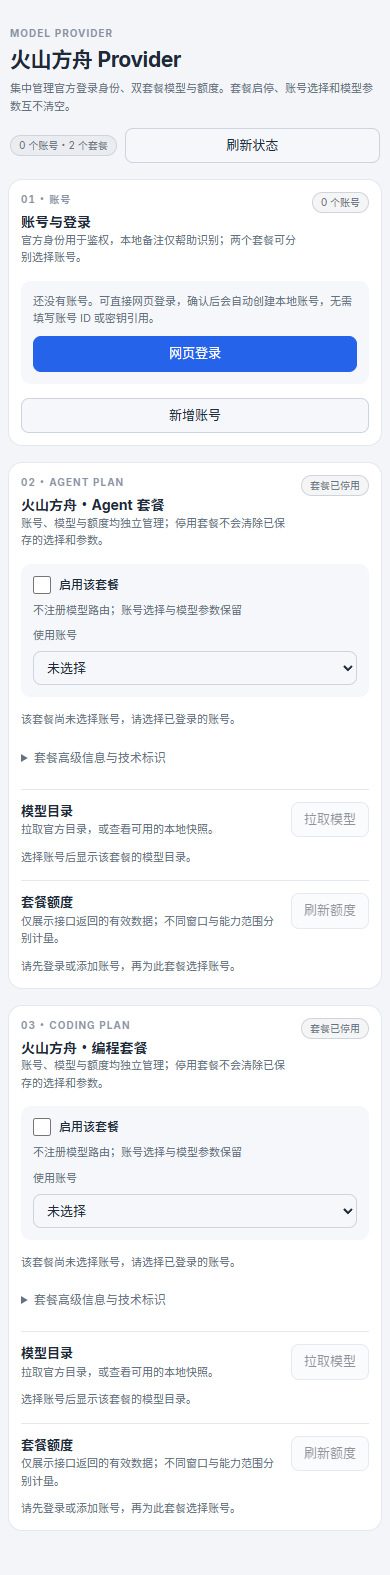
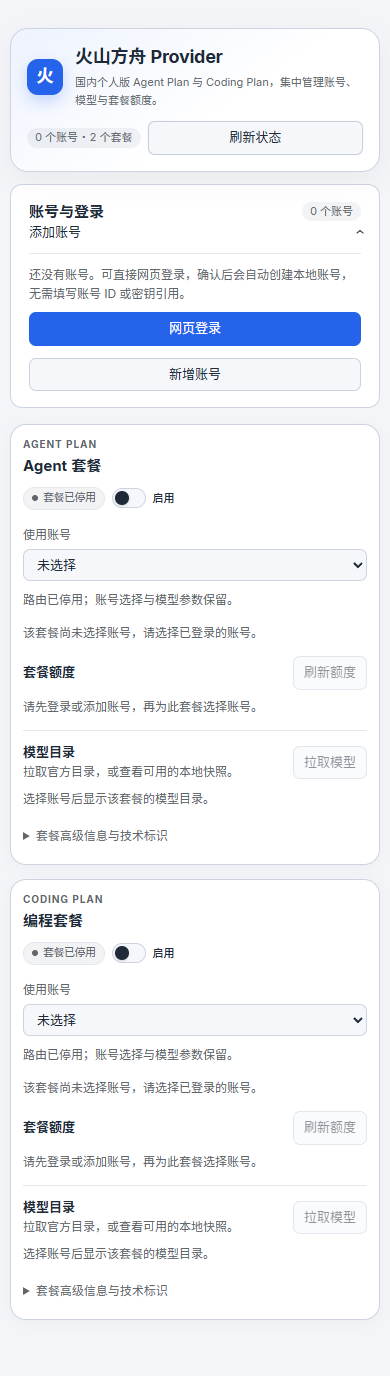
feat: rebuild settings cards and show consumption rates in 0.2.9

diff --git a/src/client.js b/src/client.js
@@ -241,6 +241,22 @@ body[data-ds-dark-theme] .vcp-settings{color-scheme:dark}
 @media(max-width:420px){.vcp-settings{padding:2px 0 20px}.vcp-card{padding:12px}.vcp-plan-workspace{padding:0}.vcp-plan{padding:12px}.vcp-header{flex-wrap:wrap}.vcp-header>.vcp-actions{width:100%;justify-content:space-between}.vcp-heading{gap:8px}.vcp-heading>.vcp-actions{width:100%}.vcp-actions .vcp-button{flex:1 1 auto}.vcp-account-body{padding:12px 0 0}.vcp-section{padding-top:12px}.vcp-quota-reset{flex-direction:column}.vcp-plan-account{flex-basis:100%}}
 @container vcp (max-width:680px){.vcp-fields,.vcp-fields-three{grid-template-columns:1fr}}
 @container vcp (max-width:420px){.vcp-settings{padding:2px 0 20px}.vcp-plan{padding:12px}.vcp-header{flex-wrap:wrap}.vcp-header>.vcp-actions{width:100%;justify-content:space-between}.vcp-heading>.vcp-actions{width:100%}.vcp-actions .vcp-button{flex:1 1 auto}.vcp-account-body{padding:12px 0 0}.vcp-quota-reset{flex-direction:column}.vcp-plan-account{flex-basis:100%}}
+
+/* Provider workspace: independent plan cards, compact quotas and model badges. */
+.vcp-settings{max-width:1080px;padding:4px 2px 32px;gap:16px;-webkit-font-smoothing:antialiased}
+.vcp-content{gap:16px}.vcp-hero{position:relative;overflow:hidden;padding:20px 22px;border:1px solid var(--dsw-alias-border-l3,rgba(128,128,128,.2));border-radius:18px;background:linear-gradient(145deg,color-mix(in srgb,var(--dsw-alias-brand-primary,#2563eb) 8%,var(--dsw-alias-bg-layer-1,#fff)),var(--dsw-alias-bg-layer-1,#fff) 58%);box-shadow:0 8px 28px rgba(15,23,42,.05)}
+.vcp-brand-mark{display:flex;align-items:center;justify-content:center;flex:none;width:42px;height:42px;border-radius:13px;background:var(--dsw-alias-brand-primary,#2563eb);color:var(--dsw-alias-label-primary-foreground,#fff);font-size:20px;font-weight:750;box-shadow:0 6px 16px color-mix(in srgb,var(--dsw-alias-brand-primary,#2563eb) 24%,transparent)}
+.vcp-hero-subtitle{margin:5px 0 0;max-width:64ch;font-size:12px;line-height:1.6;color:var(--dsw-alias-label-secondary,inherit)}.vcp-eyebrow{margin-bottom:3px;font-size:10px;font-weight:700;letter-spacing:.09em;color:var(--dsw-alias-label-secondary,inherit)}
+.vcp-plan-workspace{gap:14px;padding:0;border:0;background:transparent;overflow:visible;align-items:start}.vcp-plan{gap:14px;padding:18px;border:1px solid var(--dsw-alias-border-l3,rgba(128,128,128,.2));border-radius:16px;background:var(--dsw-alias-bg-layer-1,Canvas);box-shadow:0 3px 14px rgba(15,23,42,.035)}.vcp-plan-setup{align-items:stretch}.vcp-plan-account{flex-basis:100%}.vcp-plan-toggle{display:inline-flex;align-items:center;gap:7px;min-height:28px;font-size:11px;font-weight:600;white-space:nowrap;cursor:pointer}
+.vcp-switch-input{appearance:none;-webkit-appearance:none;position:relative;flex:none;width:34px;height:20px;margin:0;border:1px solid var(--dsw-alias-border-l3,rgba(128,128,128,.35));border-radius:999px;background:var(--dsw-alias-bg-layer-2,rgba(128,128,128,.12));color:var(--dsw-alias-label-primary,#1f2937);cursor:pointer}.vcp-switch-input::after{content:'';position:absolute;top:2px;left:2px;width:14px;height:14px;border-radius:50%;background:currentColor;box-shadow:0 1px 3px rgba(0,0,0,.2)}.vcp-switch-input:checked{border-color:var(--dsw-alias-brand-primary,#2563eb);background:var(--dsw-alias-brand-primary,#2563eb);color:var(--dsw-alias-label-primary-foreground,#fff)}.vcp-switch-input:checked::after{transform:translateX(14px)}body[data-ds-dark-theme] .vcp-switch-input:checked{color:#11161e}.vcp-switch-input:disabled{opacity:.55;cursor:not-allowed}
+.vcp-status-chip{display:inline-flex;align-items:center;gap:5px;padding:2px 8px;border:1px solid var(--dsw-alias-border-l4,rgba(128,128,128,.18));border-radius:999px;font-size:10.5px;line-height:1.6;white-space:nowrap;color:var(--dsw-alias-label-secondary,inherit);background:var(--dsw-alias-interactive-bg-hover,rgba(128,128,128,.06))}.vcp-status-chip::before{content:'';width:6px;height:6px;border-radius:50%;background:currentColor}.vcp-status-chip[data-tone=success]{color:var(--dsw-alias-state-success-primary,#15803d);border-color:color-mix(in srgb,currentColor 30%,transparent);background:color-mix(in srgb,currentColor 8%,transparent)}.vcp-status-chip[data-tone=warn]{color:var(--dsw-alias-state-warn-primary,#b45309);border-color:color-mix(in srgb,currentColor 30%,transparent);background:color-mix(in srgb,currentColor 8%,transparent)}
+.vcp-quota{grid-template-columns:1fr;gap:8px}.vcp-quota-group{grid-template-columns:repeat(auto-fit,minmax(min(100%,200px),1fr));gap:8px}.vcp-quota-group-title{grid-column:1/-1}.vcp-quota-window{padding:10px;border:1px solid var(--dsw-alias-border-l4,rgba(128,128,128,.12));background:var(--dsw-alias-interactive-bg-hover,rgba(128,128,128,.045))}.vcp-quota-track{height:6px}.vcp-quota-percent{font-size:18px}.vcp-quota-meta{font-size:11px}.vcp-section{gap:8px;padding-top:12px}
+.vcp-model-list{display:grid;grid-template-columns:repeat(auto-fit,minmax(min(100%,280px),1fr));gap:10px;margin-top:10px}.vcp-model{position:relative;display:flex;flex-direction:column;gap:10px;min-width:0;padding:13px;border:1px solid var(--dsw-alias-border-l3,rgba(128,128,128,.18));border-radius:12px;background:var(--dsw-alias-bg-layer-2,rgba(128,128,128,.035));box-shadow:inset 0 1px 0 rgba(255,255,255,.035)}.vcp-model:first-child{border-top:1px solid var(--dsw-alias-border-l3,rgba(128,128,128,.18))}.vcp-model[data-disabled=true]{opacity:.66}.vcp-model-head{display:flex;align-items:flex-start;justify-content:space-between;gap:8px;min-width:0}.vcp-model-toggle{display:flex;align-items:flex-start;gap:9px;flex:1 1 auto;min-width:0;cursor:pointer}.vcp-model-toggle .vcp-switch-input{margin-top:1px}.vcp-model-heading{display:flex;align-items:center;gap:6px;flex-wrap:wrap;min-width:0;font-size:13px;line-height:1.45}.vcp-model-name{font-size:13.5px;font-weight:650;overflow-wrap:anywhere}.vcp-model-tags{display:flex;gap:5px;flex-wrap:wrap}.vcp-model-tag{display:inline-flex;align-items:center;padding:2px 7px;border:1px solid var(--dsw-alias-border-l4,rgba(128,128,128,.16));border-radius:999px;font-size:10px;line-height:1.55;white-space:nowrap;color:var(--dsw-alias-label-secondary,inherit);background:var(--dsw-alias-interactive-bg-hover,rgba(128,128,128,.04))}.vcp-model-tag[data-tone=accent]{color:var(--dsw-alias-brand-primary,#2563eb);border-color:color-mix(in srgb,currentColor 25%,transparent);background:color-mix(in srgb,currentColor 6%,transparent)}.vcp-model-tag[data-tone=warn]{color:var(--dsw-alias-state-warn-primary,#b45309)}
+.vcp-rate-badge{display:inline-flex;align-items:center;gap:4px;padding:1px 7px;border:1px solid color-mix(in srgb,var(--dsw-alias-brand-primary,#2563eb) 35%,transparent);border-radius:999px;background:color-mix(in srgb,var(--dsw-alias-brand-primary,#2563eb) 8%,transparent);color:var(--dsw-alias-brand-primary,#2563eb);font-size:10.5px;font-weight:750;line-height:1.6;white-space:nowrap;font-variant-numeric:tabular-nums}.vcp-rate-badge small{font-size:8.5px;font-weight:650;opacity:1}.vcp-rate-badge[data-discount=true]{color:var(--dsw-alias-state-success-primary,#15803d);border-color:color-mix(in srgb,currentColor 35%,transparent);background:color-mix(in srgb,currentColor 9%,transparent)}
+.vcp-model-actions{display:flex;justify-content:flex-end;gap:7px;flex-wrap:wrap;margin-top:auto}.vcp-model-actions .vcp-button{min-height:29px;padding:4px 10px;font-size:11px}.vcp-model .vcp-details{padding-top:2px;border-top:1px solid var(--dsw-alias-border-l4,rgba(128,128,128,.12))}.vcp-model .vcp-details>summary{min-height:25px;padding:3px 0;font-size:11px}.vcp-account-panel{border-radius:16px;padding:16px 18px}.vcp-button{transition:border-color .15s ease,box-shadow .15s ease}.vcp-button-primary{border-color:var(--dsw-alias-brand-primary,#2563eb)}
+@media(max-width:680px){.vcp-hero{padding:16px}.vcp-plan{padding:15px}.vcp-model-list{grid-template-columns:1fr}}
+@media(max-width:420px){.vcp-plan{padding:12px}.vcp-brand-mark{width:36px;height:36px;border-radius:11px;font-size:17px}.vcp-hero .vcp-header-copy{flex:1 1 calc(100% - 52px)}.vcp-hero-subtitle{font-size:11px}.vcp-model-head{flex-direction:column}.vcp-model-head>.vcp-chip-row{padding-left:43px}.vcp-quota{grid-template-columns:1fr}}
+@media(prefers-reduced-motion:reduce){.vcp-settings *{scroll-behavior:auto!important;transition:none!important}}
 `;
 
 function installStyles() {
@@ -277,6 +293,30 @@ function Notice({ tone = 'muted', role, children, action }) {
 
 function StatusChip({ tone = 'muted', children }) {
   return h('span', { className: 'vcp-status-chip', 'data-tone': tone }, children);
+}
+
+function ModelTag({ tone = 'muted', title, children }) {
+  return h('span', { className: 'vcp-model-tag', 'data-tone': tone, title }, children);
+}
+
+function formatRate(value) {
+  return Number.isFinite(value) ? String(Math.round(value * 100) / 100) : '';
+}
+
+function ConsumptionBadge({ plan, consumption }) {
+  const rate = formatRate(consumption?.multiplier);
+  if (!rate) return null;
+  const regular = formatRate(consumption.regularMultiplier);
+  const discount = consumption.discounted
+    ? `限时折扣至 ${formatTime(consumption.discountEndsAt)}，常规倍率 ${regular}×。`
+    : '当前按常规倍率展示。';
+  const title = plan === 'agent-plan'
+    ? `Agent Plan AFP 输入/输出抵扣系数均为 ${rate}。${discount}`
+    : `以官方 Agent Plan AFP 系数作相对消耗参考 ${rate}×；Coding Plan 不以此换算固定调用次数或 AFP 绝对量。${discount}`;
+  return h('span', {
+    className: 'vcp-rate-badge', 'data-discount': consumption.discounted ? 'true' : 'false',
+    title, 'aria-label': `消耗倍率 ${rate} 倍${consumption.discounted ? '，限时折扣' : ''}`
+  }, `${rate}×`, consumption.discounted ? h('small', null, '限时') : null);
 }
 
 // ── 纯函数小工具 ─────────────────────────────────────────────────────────────
@@ -396,6 +436,19 @@ function resetCountdown(value, now) {
 function formatPercent(value) {
   const rounded = Math.round(Number(value) * 10) / 10;
   return Number.isFinite(rounded) ? String(rounded) : '0';
+}
+
+function formatTokenCount(value) {
+  if (!Number.isFinite(value) || value <= 0) return '未知';
+  if (value >= 1024 * 1024) {
+    const amount = value / (1024 * 1024);
+    return `${Number.isInteger(amount) ? amount : amount.toFixed(1)}M`;
+  }
+  if (value >= 1024) {
+    const amount = value / 1024;
+    return `${Number.isInteger(amount) ? amount : amount.toFixed(1)}K`;
+  }
+  return String(value);
 }
 
 /**
@@ -1053,36 +1106,43 @@ function ModelSettingsEditor({ model, draft, error, disabled, onChange, onSave, 
  * @param {object} props 组件属性
  * @returns {object} 元素树
  */
-function ModelRow({ model, disabled, routingError, editor, draftError, onToggle, onOpenEditor, onCloseEditor, onChangeDraft, onSave, onReset }) {
+function ModelRow({ plan, model, disabled, routingError, editor, draftError, onToggle, onOpenEditor, onCloseEditor, onChangeDraft, onSave, onReset }) {
   const enabled = model?.enabled !== false;
   const editing = editor?.modelId === model?.id;
-  const effective = describeEffective(model);
+  const effectiveSummary = describeEffective(model);
+  const values = model?.effective ?? model?.defaults ?? {};
   const capabilityLabel = ({ dynamic: '动态路由', partial: '部分参数未公开', unknown: '参数待确认' })[model?.capabilityStatus]
     || (model?.capabilityUnverified ? '参数待确认' : '');
-  return h('div', { className: 'vcp-model' },
-    h('div', { className: 'vcp-heading' },
-      h('div', { className: 'vcp-actions', style: { flex: '1 1 260px' } },
-        h('label', { className: 'vcp-actions', style: { flex: '1 1 220px', minWidth: 0 } },
-          h('input', {
-            type: 'checkbox', checked: enabled, disabled,
-            'aria-label': `启用模型 ${model?.id ?? ''}`,
-            style: { width: 18, height: 18, margin: 0, flex: '0 0 auto', accentColor: 'var(--dsw-alias-brand-primary, Highlight)' },
-            onChange: (event) => onToggle(model, Boolean(event.target.checked))
-          }),
-          h('span', { className: 'vcp-model-name', title: model?.id }, model?.name || model?.id)),
-        h('span', { className: 'vcp-chip-row' },
-          capabilityLabel ? h('span', { style: style.chip }, capabilityLabel) : null,
-          model?.canDisableThinking === false ? h('span', { style: style.chip }, '常驻思考') : null,
-          enabled ? null : h('span', { style: style.chip }, '已停用'))),
-      h('div', { className: 'vcp-actions' },
-        h('button', { type: 'button', style: style.btn, disabled, 'aria-label': `模型参数 ${model?.id ?? ''}`, onClick: () => (editing ? onCloseEditor() : onOpenEditor(model)) }, editing ? '收起参数' : '参数'),
-        h('button', { type: 'button', style: style.btn, disabled, 'aria-label': `恢复默认 ${model?.id ?? ''}`, title: '清除全部参数覆盖并恢复模型启用状态', onClick: () => onReset(model) }, enabled ? '恢复默认' : '恢复默认并启用'))),
+  const thinkingLabel = model?.canDisableThinking === false ? '常驻思考' : values.reasoningEfforts ? '可调思考' : '思考按默认';
+  return h('article', { className: 'vcp-model', 'data-disabled': enabled ? 'false' : 'true' },
+    h('div', { className: 'vcp-model-head' },
+      h('label', { className: 'vcp-model-toggle' },
+        h('input', {
+          className: 'vcp-switch-input', type: 'checkbox', checked: enabled, disabled,
+          'aria-label': `启用模型 ${model?.id ?? ''}`,
+          onChange: (event) => onToggle(model, Boolean(event.target.checked))
+        }),
+        h('span', { className: 'vcp-model-heading' },
+          h('span', { className: 'vcp-model-name', title: model?.id }, model?.name || model?.id),
+          h(ConsumptionBadge, { plan, consumption: model?.consumption }))),
+      h('span', { className: 'vcp-chip-row' },
+        capabilityLabel ? h('span', { style: style.chip }, capabilityLabel) : null,
+        enabled ? null : h('span', { style: style.chip }, '已停用'))),
+    h('div', { className: 'vcp-model-tags' },
+      h(ModelTag, { tone: values.imageInput ? 'accent' : 'muted' }, values.imageInput ? '视觉' : '纯文本'),
+      h(ModelTag, { tone: values.reasoningEfforts ? 'accent' : 'muted' }, thinkingLabel),
+      h(ModelTag, { title: `上下文长度 ${values.contextWindow ?? '未知'} token` }, `上下文 ${formatTokenCount(values.contextWindow)}`),
+      h(ModelTag, { title: `最大输出 ${values.maxTokens ?? '未知'} token` }, `输出 ${formatTokenCount(values.maxTokens)}`),
+      values.toolsEnabled === false ? h(ModelTag, { tone: 'warn' }, '工具已停用') : null),
+    h('div', { className: 'vcp-model-actions' },
+      h('button', { type: 'button', style: style.btn, disabled, 'aria-label': `模型参数 ${model?.id ?? ''}`, onClick: () => (editing ? onCloseEditor() : onOpenEditor(model)) }, editing ? '收起参数' : '参数'),
+      h('button', { type: 'button', style: style.btn, disabled, 'aria-label': `恢复默认 ${model?.id ?? ''}`, title: '清除全部参数覆盖并恢复模型启用状态', onClick: () => onReset(model) }, enabled ? '恢复默认' : '恢复默认并启用')),
     h('details', { className: 'vcp-details' },
       h('summary', { style: style.summary }, '模型技术标识与参数详情'),
       h('div', { className: 'vcp-model-meta' },
         h('p', { className: 'vcp-model-id', style: style.muted }, `调用 ID：${model?.id ?? ''}`),
         h('p', { style: style.muted }, `当前参数：${describeModelSettings(model)}`),
-        effective ? h('p', { style: routingError ? style.warn : style.muted }, `${routingError ? '已保存配置（路由尚未生效）' : '生效值'}：${effective}`) : null,
+        effectiveSummary ? h('p', { style: routingError ? style.warn : style.muted }, `${routingError ? '已保存配置（路由尚未生效）' : '生效值'}：${effectiveSummary}`) : null,
         model?.capabilityNote ? h('p', { style: style.muted }, model.capabilityNote) : null)),
     model?.settingsWarning ? h('p', { role: 'alert', style: style.warn }, model.settingsWarning) : null,
     editing
@@ -1194,22 +1254,23 @@ function PlanCard({ plan, snapshot, rawQuota, busy, quotaBusy, onSelect, onModel
 
   return h('section', { className: 'vcp-plan vcp-card', 'data-section': plan === 'agent-plan' ? '02' : '03', 'aria-label': PLAN_TITLES[plan] },
     h(SectionHeading, {
+      eyebrow: plan === 'agent-plan' ? 'AGENT PLAN' : 'CODING PLAN',
       title: plan === 'agent-plan' ? 'Agent 套餐' : '编程套餐',
-      action: h(StatusChip, { tone: planTone }, planState)
+      action: h('div', { className: 'vcp-actions' },
+        h(StatusChip, { tone: planTone }, planState),
+        h('label', { className: 'vcp-plan-toggle', title: '停用后保留账号选择与模型参数' },
+          h('input', {
+            className: 'vcp-switch-input', type: 'checkbox', checked: providerEnabled, disabled,
+            'aria-label': `启用${PLAN_TITLES[plan]}`,
+            onChange: (event) => onToggleProvider(plan, Boolean(event.target.checked))
+          }),
+          h('span', null, '启用')))
     }),
     snapshot?.routingError ? h('p', { style: style.muted }, `所选账号：${account ? accountName(account) : '未选择'}`) : null,
     snapshot?.routingError ? h(Notice, { tone: 'warn', role: 'alert' }, appliedAccount === undefined
       ? '实际生效账号暂不可确认，请排除路由错误后重试。'
       : appliedAccount ? `实际生效账号：${accountName(appliedAccount)}（${appliedAccount.id}），路由更新尚未完成。` : '该套餐当前没有已生效的模型路由。') : null,
     h('div', { className: 'vcp-plan-setup' },
-      h('label', { className: 'vcp-plan-toggle' },
-        h('input', {
-          type: 'checkbox', checked: providerEnabled, disabled,
-          'aria-label': `启用${PLAN_TITLES[plan]}`,
-          style: { width: 18, height: 18, margin: 0, accentColor: 'var(--dsw-alias-brand-primary, Highlight)' },
-          onChange: (event) => onToggleProvider(plan, Boolean(event.target.checked))
-        }),
-        h('span', null, '启用套餐')),
       h('label', { className: 'vcp-plan-account', style: style.field },
         h('span', { style: style.label }, '使用账号'),
         h('select', {
@@ -1264,7 +1325,7 @@ function PlanCard({ plan, snapshot, rawQuota, busy, quotaBusy, onSelect, onModel
           h('div', { className: 'vcp-model-list' },
             models.map((model, index) => h(ModelRow, {
               key: model?.id ?? `model-${index}`,
-              model, disabled, routingError: snapshot?.routingError, editor, draftError,
+              plan, model, disabled, routingError: snapshot?.routingError, editor, draftError,
               onToggle: (item, enabled) => onToggleModel(plan, activeId, item.id, enabled),
               onOpenEditor: openEditor,
               onCloseEditor: closeEditor,
@@ -1822,9 +1883,11 @@ function VolcengineProviderSection({ client }) {
         : snapshot ? `${snapshot.accounts?.length ?? 0} 个账号 · 2 个套餐` : '等待连接';
 
   return h('div', { className: 'vcp-settings', style: style.root },
-    h('header', { className: 'vcp-header' },
+    h('header', { className: 'vcp-header vcp-hero' },
+      h('div', { className: 'vcp-brand-mark', 'aria-hidden': 'true' }, '火'),
       h('div', { className: 'vcp-header-copy' },
-        h('h2', { style: style.title }, '火山方舟 Provider')),
+        h('h2', { style: style.title }, '火山方舟 Provider'),
+        h('p', { className: 'vcp-hero-subtitle' }, '国内个人版 Agent Plan 与 Coding Plan，集中管理账号、模型与套餐额度。')),
       h('div', { className: 'vcp-actions' },
         h('span', { role: 'status', style: style.chip }, headerStatus),
         h('button', { type: 'button', style: style.btn, disabled: busyAccount || loading, onClick: () => { void refresh(); } }, loading ? '正在刷新状态…' : '刷新状态'))),
@@ -1842,7 +1905,7 @@ function VolcengineProviderSection({ client }) {
     !snapshot
       ? (loading ? h('p', { role: 'status', style: style.muted }, '正在读取方舟账号状态…') : null)
       : h('div', { className: 'vcp-content', 'data-empty': !(snapshot.accounts?.length) },
-        h('div', { className: 'vcp-plans vcp-plan-workspace vcp-card', style: style.card },
+        h('div', { className: 'vcp-plans vcp-plan-workspace' },
         h(PlanCard, {
           plan: 'agent-plan', snapshot, rawQuota: quotas['agent-plan'], busy: planBusy, quotaBusy: Boolean(quotaBusy['agent-plan']),
           onSelect: selectAccount, onModels: pullModels, onQuota: pullQuota,

diff --git a/test/test_verify_package.py b/test/test_verify_package.py
@@ -24,7 +24,7 @@ class VerifyPackageTests(unittest.TestCase):
             'name': 'dsh-volcengine-provider', 'version': '0.1.0', 'main': './lib/index.mjs', 'license': 'MIT',
             'exports': {'./client': './lib/client.js'}, 'dsh': {'bundle': {'patch': './cordis.patch.yml'}}
         }
-        files = {'package/package.json': json.dumps(manifest), 'package/lib/index.mjs': 'export const name = "fixture";', 'package/lib/client.js': '// fixture', 'package/cordis.patch.yml': '[]', 'package/README.md': '# Fixture', 'package/LICENSE': 'MIT fixture', 'package/NOTICE': 'fixture'}
+        files = {'package/package.json': json.dumps(manifest), 'package/lib/index.mjs': 'export const name = "fixture";', 'package/lib/client.js': '// fixture', 'package/lib/catalog-snapshot.json': '{}', 'package/lib/consumption-rates.json': '{}', 'package/cordis.patch.yml': '[]', 'package/README.md': '# Fixture', 'package/LICENSE': 'MIT fixture', 'package/NOTICE': 'fixture'}
         if extra:
             files.update(extra)
         if remove:
@@ -46,7 +46,7 @@ class VerifyPackageTests(unittest.TestCase):
         self.fixture()
         result = module.verify_package(self.directory, 'v0.1.0')
         self.assertEqual(result['version'], '0.1.0')
-        self.assertEqual(result['files'], 7)
+        self.assertEqual(result['files'], 9)
 
     def test_mismatched_tag(self):
         self.fixture()
@@ -74,6 +74,11 @@ class VerifyPackageTests(unittest.TestCase):
         with self.assertRaisesRegex(ValueError, 'missing'):
             module.verify_package(self.directory)
 
+    def test_missing_runtime_snapshot(self):
+        self.fixture(remove='package/lib/consumption-rates.json')
+        with self.assertRaisesRegex(ValueError, 'missing'):
+            module.verify_package(self.directory)
+
     def test_browser_bridge_requires_all_platform_helpers(self):
         self.fixture({'package/lib/browser-bridge.mjs': '// fixture'})
         with self.assertRaisesRegex(ValueError, 'Browser bridge files missing'):
@@ -88,7 +93,7 @@ class VerifyPackageTests(unittest.TestCase):
         files = {'package/lib/browser-bridge.mjs': '// fixture', 'package/lib/browser-bridge-client.mjs': '// fixture', 'package/lib/browser-bridge/win32/rundll32.exe': 'native fixture', 'package/lib/browser-bridge/linux/xdg-open': '#!/bin/sh\n', 'package/lib/browser-bridge/darwin/open': '#!/bin/sh\n'}
         modes = {name: 0o755 for name in files if name.endswith(('/xdg-open', '/open'))}
         self.fixture(files, modes=modes)
-        self.assertEqual(module.verify_package(self.directory)['files'], 12)
+        self.assertEqual(module.verify_package(self.directory)['files'], 14)
 
     def test_development_directory(self):
         self.fixture({'package/test/unwanted.mjs': '// fixture'})

diff --git a/scripts/verify-package.py b/scripts/verify-package.py
@@ -34,7 +34,7 @@ def verify_package(directory, tag=None):
                 text = archive.extractfile(member).read().decode('utf-8')
                 if re.search(r'(?i)[a-z]:[\\/]Users[\\/][^\\/\s]+[\\/]', text):
                     raise ValueError('Development-machine path included')
-        required = {'package/package.json', 'package/lib/index.mjs', 'package/lib/client.js', 'package/cordis.patch.yml', 'package/README.md', 'package/LICENSE', 'package/NOTICE'}
+        required = {'package/package.json', 'package/lib/index.mjs', 'package/lib/client.js', 'package/lib/catalog-snapshot.json', 'package/lib/consumption-rates.json', 'package/cordis.patch.yml', 'package/README.md', 'package/LICENSE', 'package/NOTICE'}
         if not required.issubset(names):
             raise ValueError('Required plugin files missing')
         if 'package/lib/browser-bridge.mjs' in names:

diff --git a/AGENTS.md b/AGENTS.md
@@ -20,7 +20,7 @@
 ## 采用方案与关键取舍
 
 - Client 构建产物注册懒加载工厂 `factory(require)`，直接返回 `{ name, inject, apply }`；宿主不传入 CommonJS 的 `module` 或 `exports`。隔离和浏览器测试使用相同的单参数调用契约。
-- Host 使用目标 Core 的公开 `PiAiAdapter` 与其消费的 `@earendil-works/pi-ai@1.1.0`。插件为每个已准备调用建立独立 Provider 请求钩子，区分原始 off 与未设置档位；V4.1 使用 adaptive+effort，其余已确认可调模型使用 enabled+effort，未指定档位保持服务端默认。Client 通过统一 RPC 调用 Host。入口见 [Host](src/index.mjs)、[模型级适配器](src/ark-adapter.mjs)、[载荷处理](src/messages-payload.mjs)、[设置页](src/client.js)及[RPC](src/remote.mjs)。
+- Host 使用目标 Core `0.2.1-rc.5` 的公开 `PiAiAdapter` 与其消费的 `@earendil-works/pi-ai@1.1.0`。插件为每个已准备调用建立独立 Provider 请求钩子，区分原始 off 与未设置档位；V4.1 使用 adaptive+effort，其余已确认可调模型使用 enabled+effort，未指定档位保持服务端默认。Client 通过统一 RPC 调用 Host。入口见 [Host](src/index.mjs)、[模型级适配器](src/ark-adapter.mjs)、[载荷处理](src/messages-payload.mjs)、[设置页](src/client.js)及[RPC](src/remote.mjs)。
 - 两套套餐分别保存启用状态与所选账号，关闭套餐保留账号选择；逐模型开关和参数按账号、套餐、模型隔离。图片输入与工具调用以复选框调整并分别支持恢复继承，文本输入始终开启；图片开关只影响本地声明，工具禁用保留历史并阻止新工具调用。当前 Core/SDK 仅支持文本和图片输入，模型原生音频/视频能力与当前传输边界分开记录。账号元数据与凭据引用由 [状态模块](src/state.mjs) 管理；版本 1 状态兼容迁移为版本 2，修改采用 revision 校验与原子写入。写入新能力字段后的旧版回退限制与处置见[使用说明](docs/usage.md)。
 - 网页登录使用官方 `arkcli auth login --login-mode broker --credential-store encrypted-file` 同设备流程，原样打开官方方舟 `/region:cn-beijing/arkcli/login` 链接，回调、会话及凭据均由 CLI 管理。每次登录使用独立 session CLI home，身份和个人套餐核验完成后原子切换绑定；取消、失败或冲突不覆盖上次可用身份。旧绑定没有 homeId 时继续使用原账号目录；已准备请求固定其绑定目录。
 - CLI 私有 PATH 中的浏览器启动桥拦截系统 URL opener，通过随机令牌鉴权的 127.0.0.1 IPC 将链接交给 Host；不修改系统 opener、注册表或默认浏览器。Playwright 驱动在净化环境的独立 Worker 中加载，丢弃驱动输出，使用正常系统 HOME/USERPROFILE 和独立临时 Chrome 配置，只打开链接，不读取网页、密码、Cookie 或授权码。CLI 成功核验后及取消/超时/失败时关闭所属浏览器和 IPC；不回退到日常浏览器或 cross-device 授权码流程。
@@ -30,11 +30,12 @@
 - 删除账号后清理其编辑草稿；模型继承参数基于目录 defaults 而非含覆盖的 effective；路由更新失败时保存配置不得称为已生效。停用模型的恢复默认入口需明确会重新启用。
 - 官方 `whoami` 的 name/user_id/account_id 只以白名单摘要持久化并展示，不保存完整响应。界面优先显示官方名称，本地 label 作为独立备注；旧 OAuth 绑定缺少摘要时，只读恢复身份，不要求重复网页登录。
 - 账号快照按套餐提供 oauthProfiles、hasQuotaAccess；OAuth 未绑定的套餐不得回退到手填 profile 或凭据引用。路由更新失败时同时展示所选账号与 appliedAccounts 实际生效账号，避免把保存成功等同于路由生效。
-- 设置页同时挂载账号、Agent 和 Coding 分区：两套餐构成额度工作区，按可用宽度并列或堆叠；已有账号时管理区位于下方并默认收起，空账号时登录入口视觉前置，编辑和活动登录保留完整入口。额度窗口以剩余比例、状态条和明细分层展示，模型列表及技术信息默认折叠。额度仅对接口实际返回的有效重置时间显示本地实时倒计时与绝对时间；缺失、无效或到期状态明确提示，到期不推断额度已恢复，也不自动发起查询。同一套餐的窗口共用时钟，只有额度组件随秒更新；卸载、身份切换或全部到期时回收。状态提示采用主题表面色和主要文字色，使用不同图形及状态色边缘区分结果；原生下拉选项显式使用主题文字及表面色，并按宿主深浅色设置原生控件色系。样式按插件实例独立持有并回收；深浅色、窄视口与窄内容栏用离线浏览器验证。登录后刷新身份并使旧额度失效；切换账号隔离模型草稿；额度有效百分比、AFP 分组与异步保护不因美化改写。
+- 设置页同时挂载账号、Agent 和 Coding 分区：两套餐构成额度工作区，按可用宽度并列或堆叠；已有账号时管理区位于下方并默认收起，空账号时登录入口视觉前置，编辑和活动登录保留完整入口。额度窗口以剩余比例、状态条和明细分层展示，并按可用空间形成紧凑网格；模型使用卡片呈现名称旁倍率、视觉、思考、上下文和输出标签，模型列表及技术信息默认折叠。额度仅对接口实际返回的有效重置时间显示本地实时倒计时与绝对时间；缺失、无效或到期状态明确提示，到期不推断额度已恢复，也不自动发起查询。同一套餐的窗口共用时钟，只有额度组件随秒更新；卸载、身份切换或全部到期时回收。状态提示采用主题表面色和主要文字色，使用不同图形及状态色边缘区分结果；原生下拉选项显式使用主题文字及表面色，并按宿主深浅色设置原生控件色系。样式按插件实例独立持有并回收；开关、按钮与折扣文字不得在主题切换时产生低对比度中间态；深浅色、窄视口与窄内容栏用离线浏览器验证。登录后刷新身份并使旧额度失效；切换账号隔离模型草稿；额度有效百分比、AFP 分组与异步保护不因美化改写。
 - 状态写入采用独占文件锁、锁内磁盘 revision 校验和唯一临时文件，防止独立实例覆盖；刷新会同步外部变更并重建路由。异常退出残留锁不自动抢占，须确认无写入进程后处理。
 - 登录绑定写入遵循取消信号，取消检查覆盖排队、临时写入及原子替换前；坏模型目录保持设置页可读，路由更新仍显式拒绝损坏数据。
 - 凭据引用模式分别使用推理 Key 与 IAM AK/SK；OAuth 模式使用隔离 CLI 身份。账号切换后清除相应缓存，防止身份串用。
 - 模型清单优先采用官方返回的 `output_name`，能力参数从可追溯 Plan Pi 文档与官方目录固化；来源优先级、整数值与冲突见 [能力快照来源](docs/model-capabilities.md)。只匹配逐条声明的 aliases，不去日期猜版本；别名元数据进入 Core 前剥离。模型名称使用固化可读标签修正代码式缓存名，可读服务端名称保留；请求及配置键始终使用原 ID，技术 ID 在设置页默认折叠。旧缓存能力在读取时与快照合并，不改写生产状态或清除用户 modelSettings；显式用户覆盖优先，继承输出不超过用户缩小后的上下文。继承能力变化导致默认档位失效时保留原设置、有效调用不强制该档位，并向页面返回可修复提示。Auto/未知版本保守标记；空目录、损坏缓存和读取错误分别处理。
+- 模型消耗倍率独立固化于 [倍率快照](src/consumption-rates.json)，按模型精确 ID 或已声明别名匹配；折扣包含起止时间，读取设置快照时解析当前值，活动结束后恢复常规倍率。倍率只进入 Client 展示模型，不进入 Core 路由、请求载荷或用户覆盖。Agent 按 AFP 输入/输出抵扣系数解释，Coding 仅作相对消耗参考；Auto、ark-code-latest 与未知模型不继承目标模型倍率。资料来源与冲突见[能力快照来源](docs/model-capabilities.md#消耗倍率)。
 - Coding 额度沿用上游百分比单位；Agent 额度保留 AFP 绝对量并按能力范围分组。缺数据或请求失败时报告状态。
 - 路由更新先构造和校验新配置，再原子替换；更新失败时保留此前可用路由与模型默认参数。已准备的调用固定其配置快照。卸载时回收服务、适配器、进程、定时器和缓存。
 - Provider 不设置全局默认思考档位；仅采用模型明确声明且受有效映射支持的默认值，未声明或显式不强制时继承服务端。思考能力、动态路由和未公开控制分项记录，依据见[逐模型核验表](docs/model-thinking-audit.md)；调用测试状态不代替文档能力判定。显式请求优先于保存默认；旧预算设置保留为兼容模式，读取时过滤继承映射中的预算不可表达档，新保存仍校验原映射。常驻思考不提供真正关闭，旧无效设置保留原值并提示修复。原生映射仅 off:null 表示关闭；off 的非空字符串值仍是用户 wire 别名，经每调用钩子独立发送，不得被 Core 的 off 省略规则吞掉；预算模式仍只接受 off:null。详见[模型管理设计](docs/model-management.md)。

diff --git a/docs/model-capabilities.md b/docs/model-capabilities.md
@@ -7,7 +7,7 @@
 1. [Agent Plan Pi 接入](https://ark.volcengine.com/region:cn-beijing/docs/agent-plan-personal-pi.md)、[Coding Plan Pi 接入](https://ark.volcengine.com/region:cn-beijing/docs/coding-plan-personal-ai-pi.md)中的明确整数，分别按套餐采用。
 2. 对应套餐的[Agent 概览](https://ark.volcengine.com/region:cn-beijing/docs/agent-plan-personal-plan-overview.md)、[Coding 概览](https://ark.volcengine.com/region:cn-beijing/docs/coding-plan-personal-plan-overview.md)。
[1 lines of base64/hex data omitted]
-4. 目标 Core `0.2.1-rc.3` 消费的 `@earendil-works/pi-ai@1.1.0` [发行元数据](https://registry.npmjs.org/@earendil-works/pi-ai/1.1.0)、[类型契约](https://unpkg.com/@earendil-works/pi-ai@1.1.0/dist/types.d.ts)与[模型源](https://github.com/earendil-works/pi/tree/main/packages/ai)。类型契约限定 `Model.input` 只含 `text`、`image`，并规定 `thinkingLevelMap` 的 `null` 表示该思考档位不受支持。其他 Provider 的原厂参数仅用于交叉核对，不覆盖更窄的 Plan 配置。旧 `@mariozechner/pi-ai` 不能冒充目标消费版本。
+4. 目标 Core `0.2.1-rc.5` 消费的 `@earendil-works/pi-ai@1.1.0` [发行元数据](https://registry.npmjs.org/@earendil-works/pi-ai/1.1.0)、[类型契约](https://unpkg.com/@earendil-works/pi-ai@1.1.0/dist/types.d.ts)与[模型源](https://github.com/earendil-works/pi/tree/main/packages/ai)。类型契约限定 `Model.input` 只含 `text`、`image`，并规定 `thinkingLevelMap` 的 `null` 表示该思考档位不受支持。其他 Provider 的原厂参数仅用于交叉核对，不覆盖更窄的 Plan 配置。旧 `@mariozechner/pi-ai` 不能冒充目标消费版本。
 
 同一 Pi 示例同时使用 `256000`、`262144`、`393216`、`1048576` 和 `1049000`，因此不做统一的“K 乘 1000/1024”转换。
 
@@ -61,6 +61,27 @@
 - GLM 输出：Pi 为 `128000`，官方插件/原厂 pi-ai 为 `131072`；采用套餐 Pi。
 - MiniMax M3 模态：Coding 概览写“支持多模态视觉理解”，官方 Plan 目录在 Agent 与 Coding 两段的 `input` 都只有 `text`。按来源优先级 Coding 采用 text/image、Agent 保持 text；两个官方来源的冲突保留，不把目录的 text 单独解释为模型无视觉能力。
 - 官方 Plan 目录含两套套餐概览未列的条目（如 `doubao-seed-2.1-turbo`、`doubao-seed-2.0-lite`）。默认快照参考套餐概览与 Pi 文档，不因旧目录条目自动补入；实际清单以所选账号的 ArkCli 返回为准。目录另定义的 `deepseek-latest`、`minimax-latest`、`kimi-latest` 别名在 Coding Pi 的 Model Name 清单中亦未列出，未核实精确对应关系前不并入 `aliases`。
+
+## 消耗倍率
+
+核验日期：2026-10-30。设置页的倍率来自[套餐内 AFP 抵扣规则](https://ark.volcengine.com/region:cn-beijing/docs/agent-plan-personal-afp-credits-billing-rules)与[Agent/Coding Plan 指定模型抵扣系数限时折扣活动](https://ark.volcengine.com/region:cn-beijing/docs/coding-plan-personal-model-discount)。文本模型的输入与输出系数相同；AFP 公式为 `(输入 token × 输入系数 + 输出 token × 输出系数) / 10000`。本地快照只保存常规值和带起止时间的折扣，读取设置页时判断活动是否有效，不把限时值永久固化为常规值。
+
+| 模型 | 常规倍率 | 限时倍率与结束时间（UTC+8） |
+|---|---:|---|
+| Doubao Seed 2.0 Mini | 0.25 | — |
+| DeepSeek V4 Flash、Doubao Seed 2.1 Lite、GLM 5.3 Flash | 0.5 | — |
+| DeepSeek V4.1 Flash Economy | 2 | 1，至 2026-12-30 23:59:59 |
+| DeepSeek V4.1 Flash | 2.5 | 1.25，至 2026-12-30 23:59:59 |
+| Doubao Seed Evolving、2.1 Pro、MiniMax M3 | 2.5 | — |
+| Kimi K3.1 Pro | 7 | 3.5，至 2026-11-09 23:59:59 |
+| Kimi K2.7 Code、GLM 5.3 | 4.5 | — |
+| Kimi K2.8 Preview | 8 | 4.8，至 2026-12-14 23:59:59 |
+| Kimi K3 | 10 | 5 折活动已于 2026-10-25 结束，当前展示常规值 |
+| DeepSeek V4 Pro | 5.5 | — |
+
+- Agent Plan 的标识直接表示上述 AFP 抵扣系数。Coding Plan 界面沿用上述模型系数作相对消耗参考，但额度接口只给百分比，不能用该标识推算固定调用次数或 AFP 绝对量。
+- AFP 规则页与活动页的展示更新时间可能不同；Kimi K3 在活动页列明的 5 折窗口已经结束，本地快照不记录任何折扣起止时间，直接展示常规值 10，不继续沿用规则页残留的“限时 5”文案。
+- `auto`、`ark-code-latest` 和未知版本没有固定目标模型，不显示倍率。精确 ID 与两套套餐的别名映射保存在 `src/consumption-rates.json`；该元数据只用于设置页，不进入 Core 模型描述或请求载荷。
 
 ## 显示名称
 

diff --git a/docs/validation.md b/docs/validation.md
@@ -2,9 +2,17 @@
 
 ## 目标与范围
 
-- 实际目标 **DSH Core 0.2.1-rc.3**；兼容声明不扩展到未测试版本。
+- 实际目标 **DSH Core 0.2.1-rc.5**；兼容声明不扩展到未测试版本。
 - ArkCli **1.0.37** 的命令帮助、随包官方 Skills、raw action 注册及无网络预览。
 - 单元业务测试使用假凭据、假 CLI 与外部网络替身；真实本地桥 IPC、原生进程和独立账号 OAuth 验收另列，均使用临时目录。
+
+## 0.2.9 Core 适配、设置页与消耗倍率
+
+- 从桌面 `app.asar` 的产品与各包 manifest 核对实际 Core / llm / llm-pi-ai / credentials / launch-environment / typert-protocol 为 `0.2.1-rc.5`，其消费的 pi-ai 仍为 `1.1.0`；插件 peer 声明同步到 rc.5，没有改写宿主安装。
+- 真实 rc.5 隔离 Host 加载通过，覆盖 Core Schema、RPC、双路由、模型目录、路由失败保留和 dispose；模型管理、逐模型思考与能力矩阵使用同一真实 Core/SDK 和假 HTTP，未调用真实推理。
+- 设置页参考 Our Free Model 2.7.1 的卡片与标签信息层级，保留本插件原有账号、双套餐、额度、模型参数和异步保护。真实 React/Chrome 离线验证名称旁倍率、限时标记、能力标签、模型开关与参数、额度分组、登录路径、390px 窄屏和窄内容栏；HTTP(S) 全部阻断，RPC 为假数据。
+- 深浅色 ×（宿主实色 secondary 令牌 / 缺失令牌）四组对比度审计均通过 WCAG AA。首次审计发现按钮/开关主题过渡中间色与折扣小字对比不足，已去除相关颜色过渡并修正文字透明度后复验通过。
+- 倍率依据[官方 AFP 抵扣规则](https://ark.volcengine.com/region:cn-beijing/docs/agent-plan-personal-afp-credits-billing-rules)与[共享折扣活动](https://ark.volcengine.com/region:cn-beijing/docs/coding-plan-personal-model-discount)固化，逐模型来源和 Kimi K3 活动结束冲突见[能力参数](model-capabilities.md#消耗倍率)。测试覆盖两套套餐别名、活动开始前/截止/结束后、未知与动态路由无倍率，以及倍率元数据不进入 Core 配置；Coding 仅作相对消耗参考，未实测线上计费。
 
 ## 0.2.8 模型能力覆盖
 
@@ -55,7 +63,7 @@ node --test test/*.test.mjs
 - HMAC 签名测试使用独立 OpenSSL 推导的固定向量，不只比较实现自身的两次输出。
 - 构建生成 Host 模块与返回导出对象的惰性 Client 工厂；不新增安装构建依赖。
 
-当前结果：**360 项 JavaScript 测试、10 项 Python 归档测试通过**，50 个 JavaScript 源文件语法/边界检查通过，构建包含 18 个模块/Client 产物及 3 个浏览器桥辅助文件。模型管理测试覆盖旧状态迁移、套餐/模型开关、逐模型参数、请求默认值及适配器生命周期；发布测试覆盖 OIDC 身份、版本与渠道、归档校验、registry 错误分类及发布后完整性检查。
+当前结果：**363 项 JavaScript 测试、11 项 Python 归档测试通过**，50 个 JavaScript 源文件语法/边界检查通过，构建包含 19 个模块/Client 产物及 3 个浏览器桥辅助文件。模型管理测试覆盖旧状态迁移、套餐/模型开关、逐模型参数、请求默认值及适配器生命周期；发布测试覆盖 OIDC 身份、版本与渠道、归档校验（含 `catalog-snapshot.json` 与 `consumption-rates.json` 必需项）、registry 错误分类及发布后完整性检查。
 
 ### 实际 Core 隔离加载
 

diff --git a/docs/usage.md b/docs/usage.md
@@ -85,6 +85,8 @@ IAM SK:      VOLC_SECRETKEY
 
 模型列表中的开关只影响该账号、该套餐里的这个模型。停用后从模型选择器中移除，但仍保留参数，便于稍后重新启用。拉取目录不会清空这些设置。
 
+模型名称旁的 `×` 标识是官方模型抵扣系数；带“限时”的标识只在官方活动时间范围内显示折扣值，结束后恢复常规倍率。Agent Plan 按 AFP 输入/输出抵扣系数解释；Coding Plan 仅用作相对消耗参考，不据此推算固定调用次数。动态路由和未知模型不显示虚构倍率，详见[消耗倍率](model-capabilities.md#消耗倍率)。
+
 ## 模型参数
 
 展开模型参数，可以覆盖图片输入、工具调用、上下文长度、默认输出 token、温度、思考档位映射、默认档位和思考模式。图片与工具使用复选框启用或禁用；手动调整后可分别恢复目录默认，保存时仅清除对应能力的覆盖。继承读取目录默认，而不是此前保存的自定义值。数值留空表示继承。恢复默认会清除该模型全部覆盖值并恢复启用，停用模型的按钮会明确显示 **恢复默认并启用**。设置按账号、套餐、模型保存，切换账号不会套用另一账号的参数。

diff --git a/docs/changelog.md b/docs/changelog.md
@@ -2,6 +2,13 @@
 
 [返回主页](../README.md)
 
+## 0.2.9
+
+- 适配 DSH Core `0.2.1-rc.5`，继续复用公开 `PiAiAdapter` 与 `@earendil-works/pi-ai@1.1.0`。
+- 重建设置页的视觉层级：独立套餐卡片、紧凑额度网格、清晰的页头与开关；模型改为卡片式布局，保留原有账号、参数、额度和异步保护。
+- 模型名称旁新增消耗倍率与限时折扣标识，并展示视觉、思考、上下文和输出标签；倍率按官方资料与活动时间解析，不进入 Core 请求配置。
+- 深浅色、390px 窄屏与窄内容栏通过真实 React/Chrome 离线验证，四组主题令牌组合的文字对比度均达到 WCAG AA。
+
 ## 0.2.8
 
 - 新增按账号、套餐和模型分别勾选图片输入与工具调用的设置，可逐项恢复继承，并区分模型原生模态与当前传输能力。

diff --git a/docs/arkcli-contract.md b/docs/arkcli-contract.md
@@ -2,7 +2,7 @@
 
 ## 版本与证据
 
-目标 DSH Core 为 **0.2.1-rc.3**；ArkCli 命令契约对照 **@volcengine/ark-cli 1.0.37** 的帮助、随包官方 Skills 与官方仓库文档。帮助、raw API 的 `--dry-run` 和 Windows 同设备真实登录已核验；真实额度和推理调用尚未执行。网页登录的启动器拦截契约仅对 Windows ArkCli 1.0.37 核验，其他平台/版本在登录前拒绝。
+目标 DSH Core 为 **0.2.1-rc.5**；ArkCli 命令契约对照 **@volcengine/ark-cli 1.0.37** 的帮助、随包官方 Skills 与官方仓库文档。帮助、raw API 的 `--dry-run` 和 Windows 同设备真实登录已核验；真实额度和推理调用尚未执行。网页登录的启动器拦截契约仅对 Windows ArkCli 1.0.37 核验，其他平台/版本在登录前拒绝。
 
 ## OAuth
 
